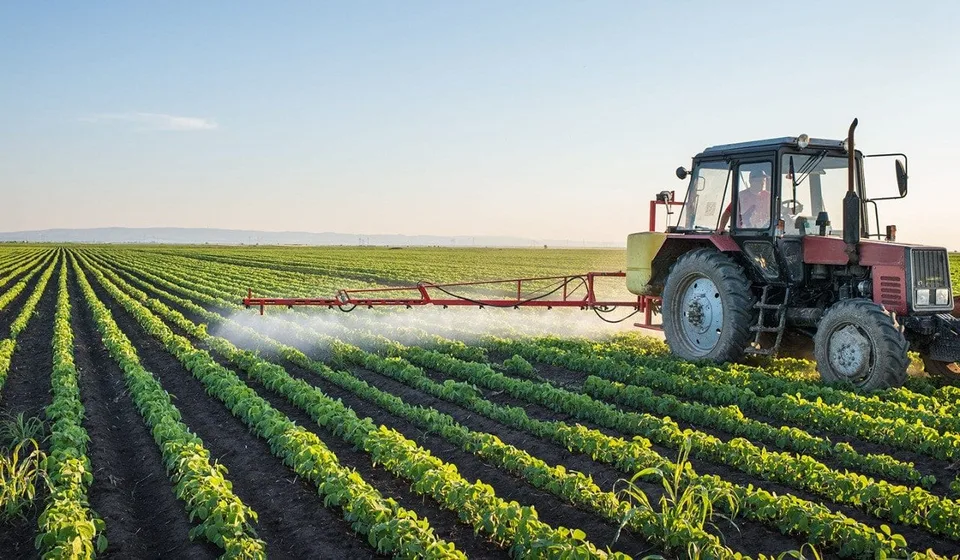
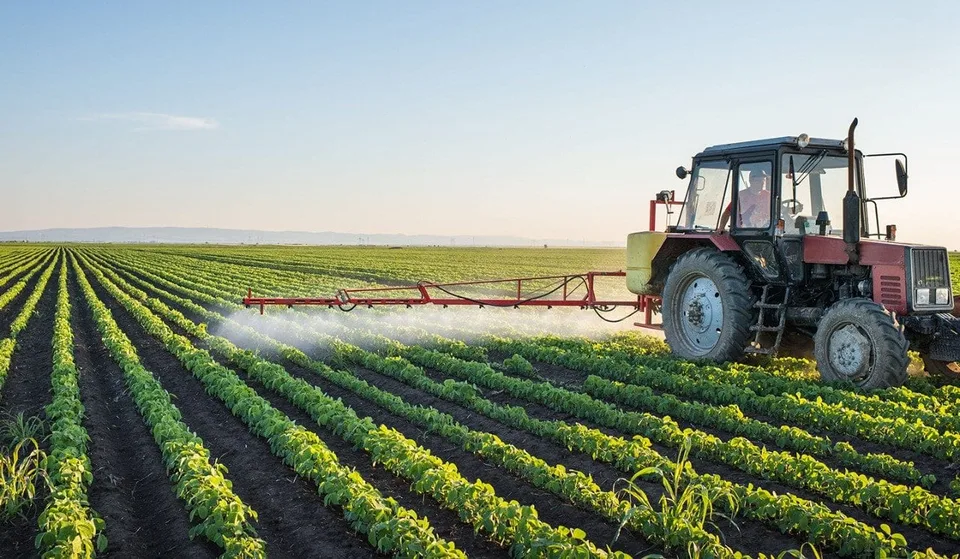
perf(site): reduce initial page load time
Convert AFICD hero from 536KB JPEG to 268KB WebP (-50%). Convert Lake
Agro hero from JPEG to WebP. Create 960w/800w mobile variants for 7
company hero images and Gulf Aggregates hero. All existing responsive
srcset on Home hero images preserved.

🤖 Generated with Codebuff

diff --git a/aficd.html b/aficd.html
@@ -321,7 +321,7 @@
 
 <div class="page-wrapper">
 <section class="page-hero aficd-hero">
-  <div class="hero-media" style="background-image:url('assets/images/aficd/operations/aficd-truck-loading.jpeg')" aria-hidden="true"></div>
+  <div class="hero-media" style="background-image:url('assets/images/aficd/operations/aficd-truck-loading.webp')" aria-hidden="true"></div>
   <div class="hero-overlay" aria-hidden="true"></div>
   <div class="container">
     <div class="eyebrow">African Inland Container Depot (AFICD)</div>

diff --git a/lake-agro.html b/lake-agro.html
@@ -412,7 +412,7 @@ body.co-theme-agro .aramco-card p {
 
 <div class="page-wrapper">
 <section class="page-hero">
-  <div class="hero-media" style="background-image:url('assets/images/lake-agro/slid1.jpg')" aria-hidden="true"></div>
+  <div class="hero-media" style="background-image:url('assets/images/lake-agro/slid1.webp')" aria-hidden="true"></div>
   <div class="hero-overlay" aria-hidden="true"></div>
   <div class="container">
 <div class="eyebrow" data-i18n="agro.hero.eyebrow">Lake Agro · Rufiji, Tanzania</div>
